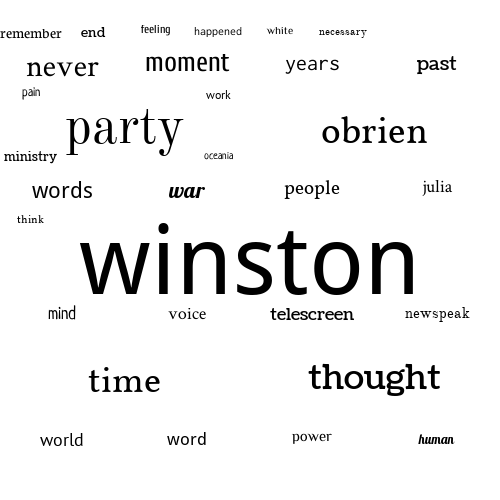
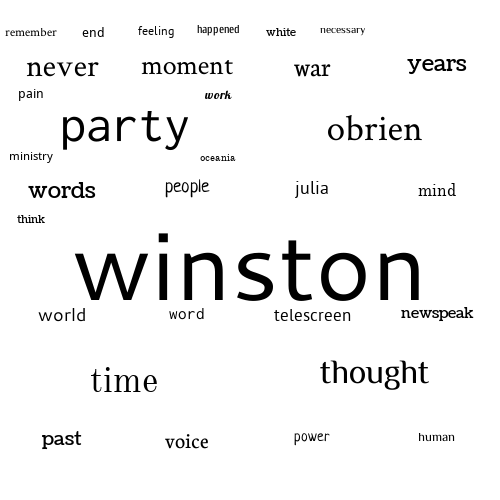
Refactored

diff --git a/wordcloud/cloud.py b/wordcloud/cloud.py
@@ -9,9 +9,6 @@ from wordcloud.grid import GridGenerator, center_word_in_square
 WC_IMG_FILEPATH = os.path.abspath(os.path.join(os.path.dirname( __file__ ), '..', 'output', 'wordcloud.png'))   
 WC_BOUNDS_IMG_FILEPATH = os.path.abspath(os.path.join(os.path.dirname( __file__ ), '..', 'output', 'word-bounds.png'))  
 
-FONT_DIR = os.path.abspath(os.path.join(os.path.dirname( __file__ ), '..', 'fonts'))   
-FONT_COLOUR = (0, 0, 0)     # BLACK
-
 # Place words in the vocabulary on the grid
 def place_words(vocab, vocab_sizes, grid, grid_gen, wc_img_path=WC_IMG_FILEPATH, wc_bounds_img_path=WC_BOUNDS_IMG_FILEPATH):
     voc = deepcopy(vocab)
@@ -20,7 +17,6 @@ def place_words(vocab, vocab_sizes, grid, grid_gen, wc_img_path=WC_IMG_FILEPATH,
     grd_width = grid_gen.get_grid_width()
     grd_height = grid_gen.get_grid_height()
     word_box_tree = AABBTree()      # for collision detection    
-    font_colour = (0, 0, 0) # black
 
     # WORDCLOUD IMAGE TO OUTPUT
     WC_IMG = Image.new('RGB', (grd_width, grd_height), color='white')
@@ -35,11 +31,7 @@ def place_words(vocab, vocab_sizes, grid, grid_gen, wc_img_path=WC_IMG_FILEPATH,
         word_tuple = voc.popitem()
         word = word_tuple[0]
         word_size = voc_sizes[word]
-
-        # font to be used
-        font_name = random.choice(os.listdir(FONT_DIR))
-        font_path = os.path.abspath(os.path.join(os.path.dirname( __file__ ), '..', FONT_DIR, font_name))
-        font = ImageFont.truetype(font_path, word_size)
+        font = ImageFont.truetype(get_random_font_path(), word_size)
 
         # find valid placement for this word in the grid
         valid_placement = False
@@ -60,7 +52,13 @@ def place_words(vocab, vocab_sizes, grid, grid_gen, wc_img_path=WC_IMG_FILEPATH,
                         break  
 
         WC_BOUNDS_DRAW.rectangle(word_box, outline=(255,0,0), width=1)
-        WC_DRAW.text(coords, word, FONT_COLOUR, font=font)
+        WC_DRAW.text(coords, word, (0, 0, 0), font=font)
         
     WC_BOUNDS_IMG.save(wc_bounds_img_path)
     WC_IMG.save(wc_img_path)
+
+def get_random_font_path():
+    FONT_DIR = os.path.abspath(os.path.join(os.path.dirname( __file__ ), '..', 'fonts'))
+    font_name = random.choice(os.listdir(FONT_DIR))
+    font_path = os.path.abspath(os.path.join(os.path.dirname( __file__ ), '..', FONT_DIR, font_name))
+    return font_path

diff --git a/main.py b/main.py
@@ -14,23 +14,16 @@ NUM_WORDS = 32
 IMAGE_WIDTH = 500
 IMAGE_HEIGHT = 500
 
-
-
 # TO DO
 # 2. MAKE FONT SIZE MULTIPLIER DYNAMIC
 # 3. MAKE WORD PLACEMENT FAVOUR THE CENTER OF THE CANVAS
 # 4. CLEAN UP IMAGE GENERATION [wip]
-
-# WORD CLOUD INPUT PARAMS
-#NUM_WORDS = 32
 CONST_SCALE = 12
 FONT_SIZE_MULTIPLIER = 7
-#IMAGE_WIDTH, IMAGE_HEIGHT = 500, 500
 
 # NORMALIZE INPUT DATA FROM FILE AND BUILD WORD DICT
 stopwords = set_stopwords(STOPWORDS_DATA_PATH)
 vocab = create_vocab(NUM_WORDS, INPUT_DATA_PATH, stopwords)
-print("%d most common words; %s" % (NUM_WORDS, vocab))
 
 # DETERMINE FONT SIZES - FIRST NEED TO GET TOTAL NUMBER OF OCCURENCES OF ALL WORDS IN OUR VOCAB
 vocab_sizes = {}

diff --git a/wordcloud/grid.py b/wordcloud/grid.py
@@ -84,7 +84,6 @@ def generate_grid_coords(grid_width, grid_height, num_squares):
     square = ((0, 0), (grid_width, grid_height))
     square_list = []
     square_list.append(square)
-    print(square_list)
     index = 0
     while len(square_list) > 0 and len(square_list) <  num_squares:
         subsquares = find_subsquares(square_list[index][0], square_list[index][1])
